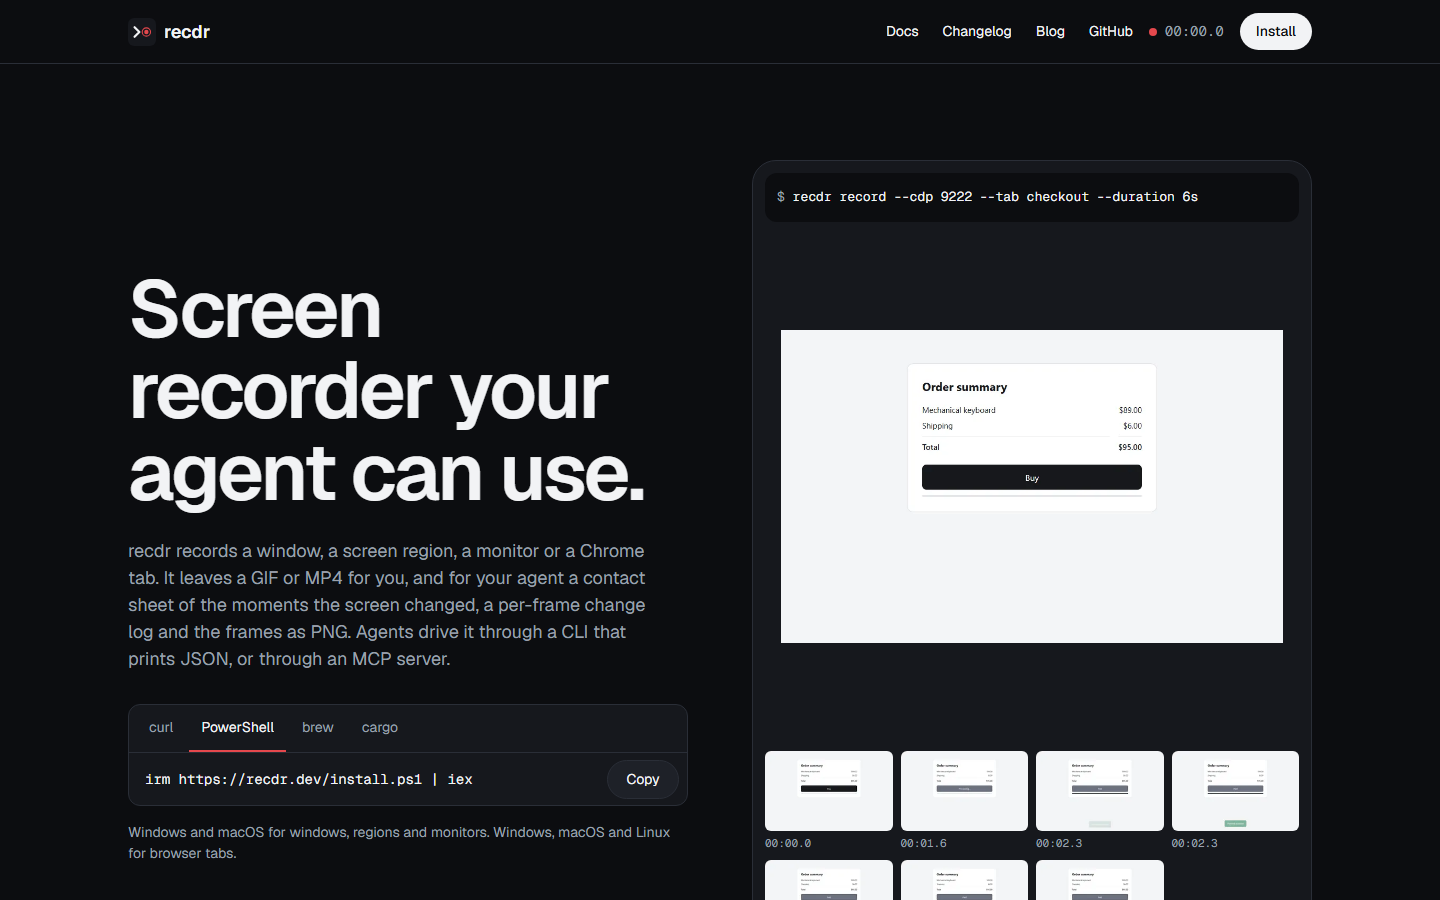
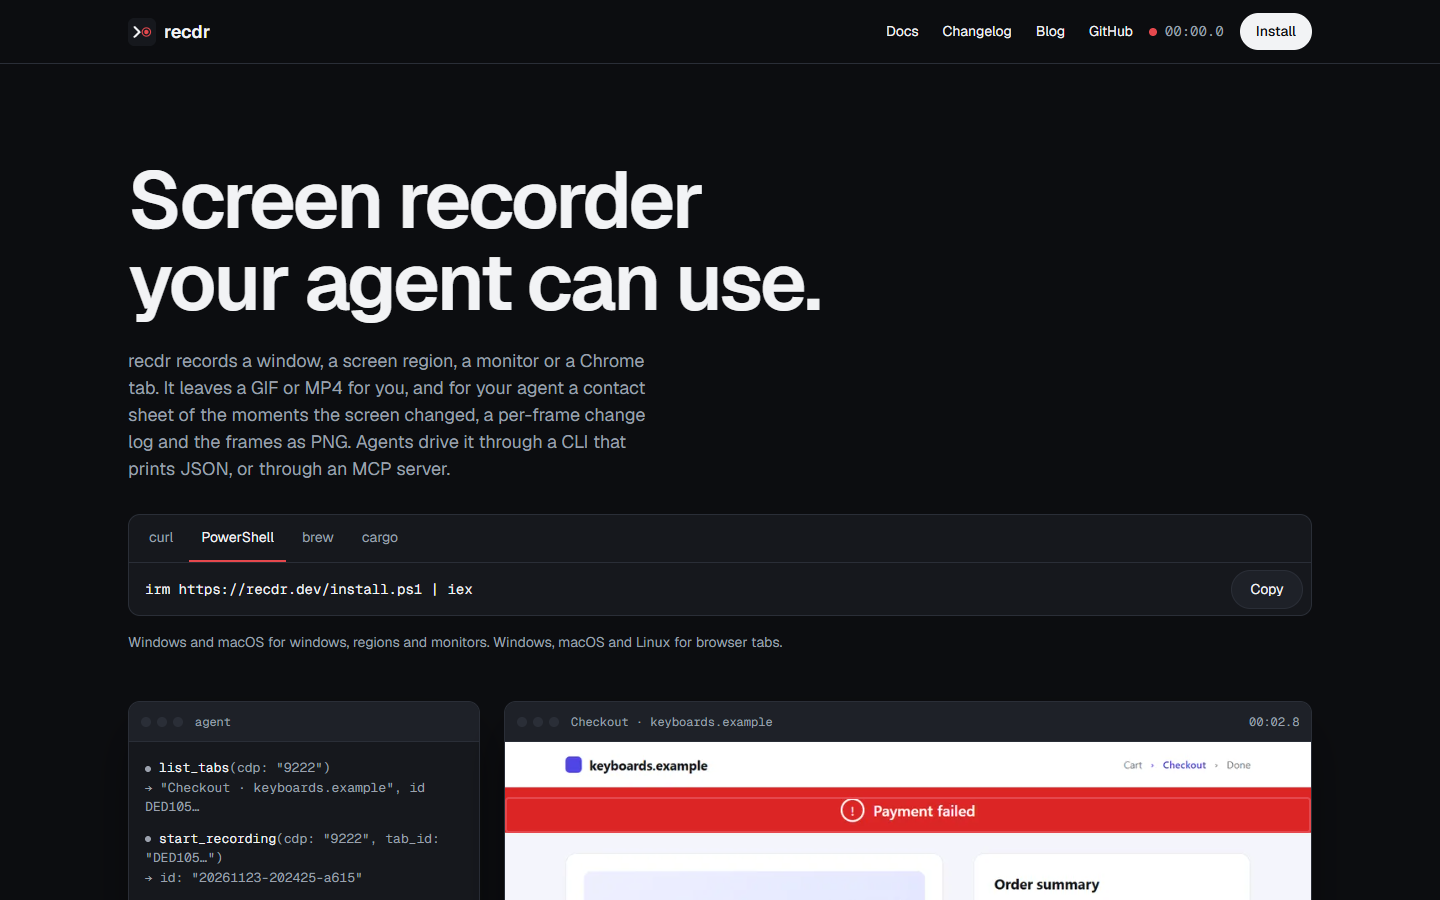
docs: describe the new recording and retake the README screenshot
demo/RECORDING.md now covers the keyboards.example checkout page, the
tabs, start, mark and stop commands the script runs, the checks it makes
on the recording, and the committed recording (recdr v0.1.1, 23 frames,
9 keyframes, 1.1 MB GIF). The README screenshot shows the new hero.

e2e/evidence.spec.ts reads its output folder from EVIDENCE_DIR, so the
screenshots for one spec do not overwrite another's.

Claude-Session: https://claude.ai/code/session_01Va3eBDb4K55N9NaVTYNpHU

diff --git a/e2e/evidence.spec.ts b/e2e/evidence.spec.ts
@@ -2,11 +2,12 @@
 //
 //   EVIDENCE=1 pnpm test:e2e --project=chromium e2e/evidence.spec.ts
 //
-// The files go to spec/1-recdr-dev-site/evidence/, which is git-ignored.
+// The files go to spec/1-recdr-dev-site/evidence/, or to the folder in
+// EVIDENCE_DIR. Everything under spec/ is git-ignored.
 import { mkdirSync } from 'node:fs';
 import { test } from '@playwright/test';
 
-const out = 'spec/1-recdr-dev-site/evidence';
+const out = process.env.EVIDENCE_DIR ?? 'spec/1-recdr-dev-site/evidence';
 const ids = [
   'top',
   'why',

diff --git a/demo/RECORDING.md b/demo/RECORDING.md
@@ -1,19 +1,29 @@
 # The demo recording
 
-`src/assets/demo/` holds one recdr recording of `demo/index.html`, a small
-checkout page. The landing page shows its frames, contact sheet, GIF, MP4 and
-JSON files as recdr wrote them. Nothing in that folder is edited by hand.
+`src/assets/demo/` holds one recdr recording of `demo/index.html`, the
+checkout page of a shop called keyboards.example. The landing page shows its
+frames, contact sheet, GIF, MP4 and JSON files as recdr wrote them. Nothing in
+that folder is edited by hand.
 
-In the six seconds of the recording the script clicks `Buy` once. The button
-reads `Processing…` while a bar fills for 600 ms, then a toast
-`Payment accepted` comes in, stays for 1.5 seconds and leaves.
+## What the page does
+
+The script clicks `Buy` once. The button reads `Processing…` while a bar
+fills for 600 ms. Then a red banner, `Payment failed`, slides in over 100 ms,
+stays for 250 ms and slides out over 100 ms. The order summary is replaced
+by `Order confirmed` with a check mark, and the page stays that way.
+
+A screenshot taken after the click shows a confirmed order. Only the frames
+in between show that a payment failed first, and that is the story the
+landing page tells with this recording.
 
 ## Record it again
 
 You need:
 
-- recdr 0.1.0 or later, on `PATH` or with its path in `RECDR_BIN`
+- recdr 0.1.1 or later, on `PATH` or with its path in `RECDR_BIN`
 - Playwright's Chromium: `pnpm exec playwright install chromium`
+- the repository in a folder whose path does not hold your user name. The
+  landing page shows `result.json`, and that file holds absolute paths
 
 From the repository root:
 
@@ -22,32 +32,61 @@ node demo/record.ts
 ```
 
 The script starts Chromium with remote debugging on port 9222, opens the
-page at 960 by 600 and runs:
+page at 1280 by 800 and runs the commands an agent would run:
 
 ```bash
-recdr record --cdp 9222 --tab checkout --duration 6s --fps 15 --format gif,mp4
+recdr tabs --cdp 9222
+recdr start --cdp 9222 --tab-id <id of the Checkout tab> --fps 15 --format gif,mp4
+recdr mark <recording id> "clicked Buy"
+recdr stop <recording id>
 ```
 
-It waits until recdr listens for clicks, clicks `Buy` 1.5 seconds later, and
-when recdr exits copies the recording from `./.recdr` into `src/assets/demo/`.
-It stops with an error when the recording has no click, or when `result.json`
-holds a path with your user name in it (the landing page shows that file, so
-keep the repository outside your home folder when you record).
+After `start` it waits until recdr listens for clicks, waits another 1.5
+seconds and clicks `Buy`. The mark follows the click. It stops the recording
+2 seconds after the page reports the confirmed order.
+
+Then it checks the recording and stops with an error when one of these does
+not hold:
+
+- `result.json` has no path with your user name in it
+- there is one click and one mark
+- at most 60 frames are stored, because the hero downloads every one of them
+- at most 12 are keyframes, so the contact sheet shows all of them
+- the recording is 4.5 to 8.5 seconds long
+- a stored frame shows the whole banner, and a later frame no longer shows it
+- one of the frames with the banner is a keyframe
+
+The script finds the banner by counting red pixels in the stored frames. The
+page's own clock and recdr's frame times differ by 20 to 70 ms, which is too
+much for a banner that is whole for 250 ms.
+
+When every check passes it copies the recording from `./.recdr` into
+`src/assets/demo/` and writes `demo/story.json`: the tab's title and id, and
+the labels of the first frame with the banner, the frame with the most of it,
+and the first frame after it. The landing page takes its timings and the
+agent's finding from that file, `manifest.json` and `result.json`, so no
+component has a frame number typed into it.
 
 Frame count and timings differ a little between runs. After recording again:
 
-- run `pnpm test` and `pnpm test:e2e`
-- open `src/assets/demo/contact_sheet.png` and set `toastArrives` and
-  `toastGone` in `src/components/AgentsSection.astro` to the labels of the
-  tile where the toast starts to show and the tile after it has left
+- open `src/assets/demo/contact_sheet.png` and confirm that one tile shows
+  the `Payment failed` banner
+- run `pnpm check-all` and `pnpm test:e2e`
+- retake `docs/images/home.png` if the hero looks different
 - update the table below
 
 ## The committed recording
 
-| Field         | Value                                             |
-| ------------- | ------------------------------------------------- |
-| recdr release | `v0.1.0`, commit `aa47cd8`                        |
-| Release asset | `recdr-x86_64-pc-windows-msvc.zip`                |
-| Recorded on   | 2026-11-23, Windows 11                            |
-| Frames stored | 19                                                |
-| Click         | 1551 ms, at 480, 282 in frame pixels, left button |
+| Field           | Value                                                                                |
+| --------------- | ------------------------------------------------------------------------------------ |
+| recdr release   | `v0.1.1`, commit `7412cee`                                                           |
+| Release asset   | `recdr-x86_64-pc-windows-msvc.zip`                                                   |
+| Recorded on     | 2026-11-23 (UTC), Windows 11                                                         |
+| Recording id    | `20261123-202425-a615`                                                               |
+| Size and length | 1280 by 800, 15 fps, 5654 ms                                                         |
+| Frames stored   | 23                                                                                   |
+| Keyframes       | 9                                                                                    |
+| Click           | 1823 ms, at 964, 435 in frame pixels, left button                                    |
+| Mark            | 1867 ms, `clicked Buy`                                                               |
+| Banner          | first in frame 000010 (2550 ms), whole in 000013 (2839 ms), gone by 000016 (3035 ms) |
+| `recording.gif` | 1.1 MB. recdr has no option to scale the GIF; the landing page loads it lazily       |

diff --git a/README.md b/README.md
@@ -14,7 +14,7 @@ The site for [recdr](https://github.com/dzikrisyairozi/recdr): home page, docs, 
 [![CI](https://github.com/dzikrisyairozi/recdr.dev/actions/workflows/ci.yml/badge.svg)](https://github.com/dzikrisyairozi/recdr.dev/actions/workflows/ci.yml)
 [![recdr release](https://img.shields.io/github/v/release/dzikrisyairozi/recdr?label=recdr)](https://github.com/dzikrisyairozi/recdr/releases/latest)
 
-<a href="https://recdr.dev"><img src="docs/images/home.png" alt="The recdr.dev home page: the headline, the install command, and a recording of a checkout page turning into a grid of frames" width="800"></a>
+<a href="https://recdr.dev"><img src="docs/images/home.png" alt="The recdr.dev home page: the headline, the install command, and under them an agent's recdr session beside the checkout page it recorded, on the frame where a Payment failed banner shows" width="800"></a>
 
 </div>
 
